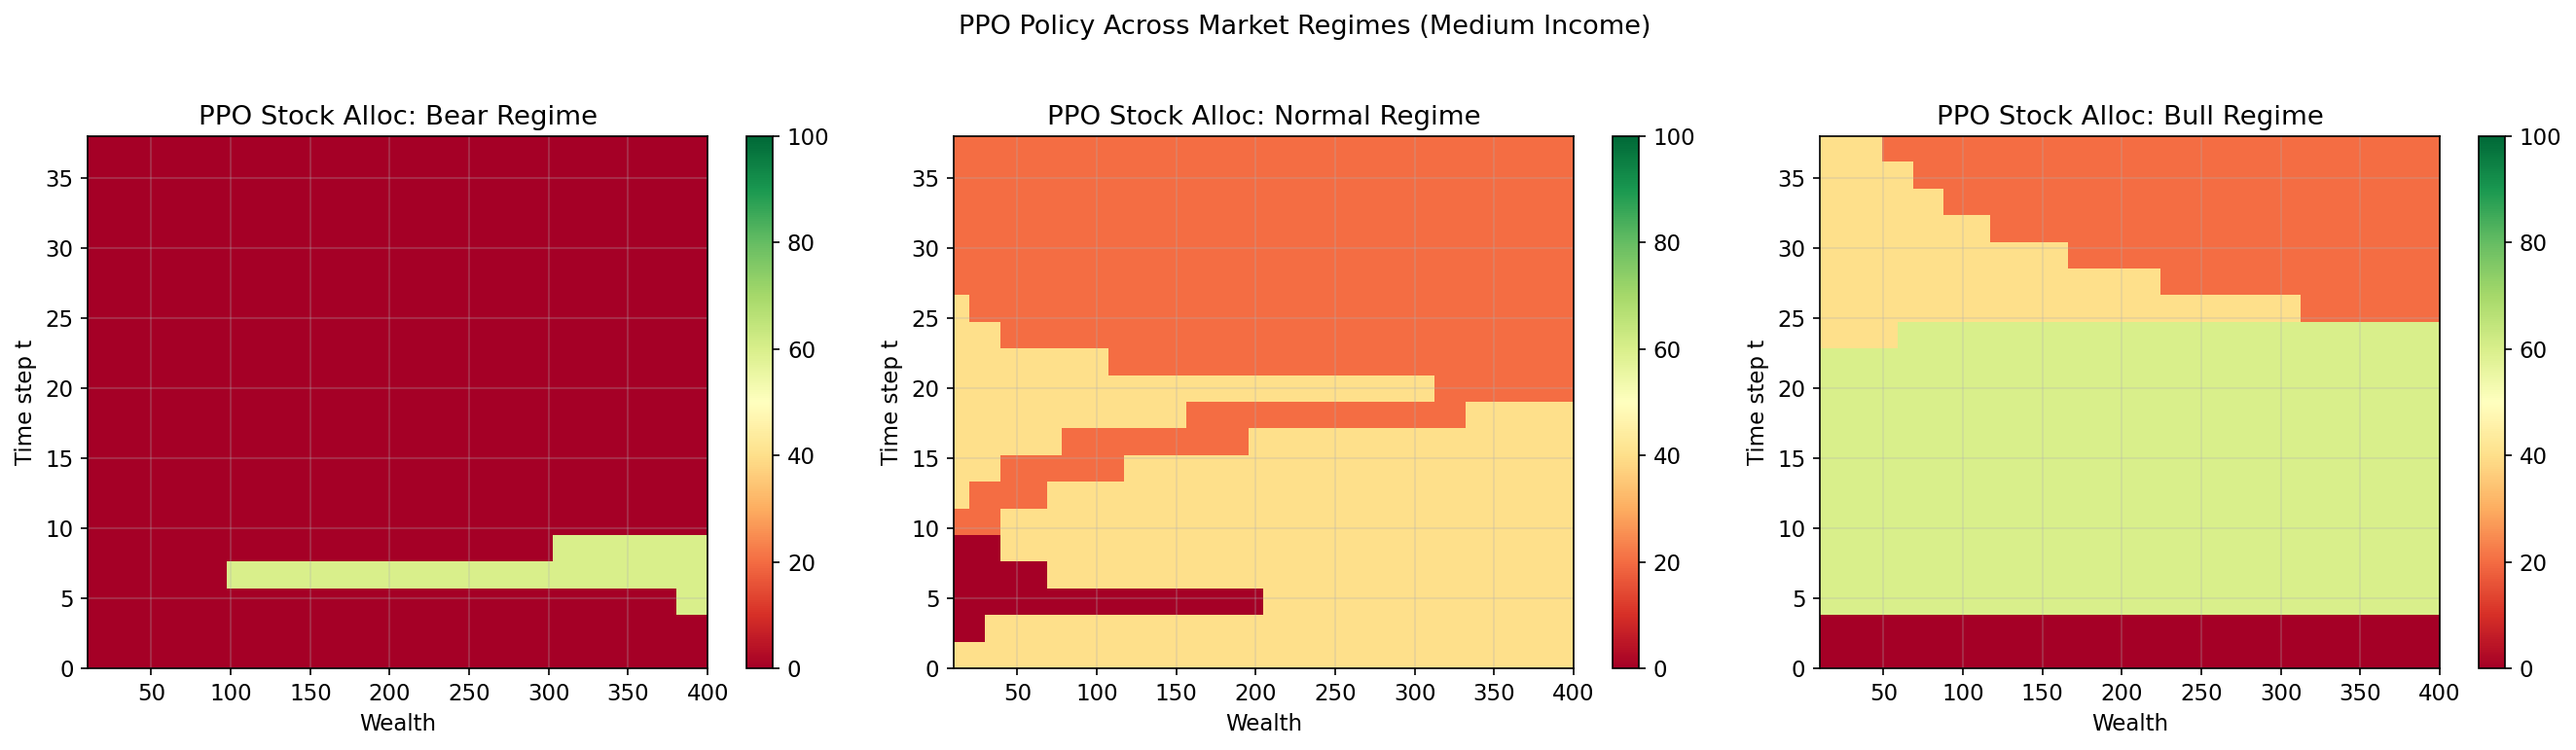
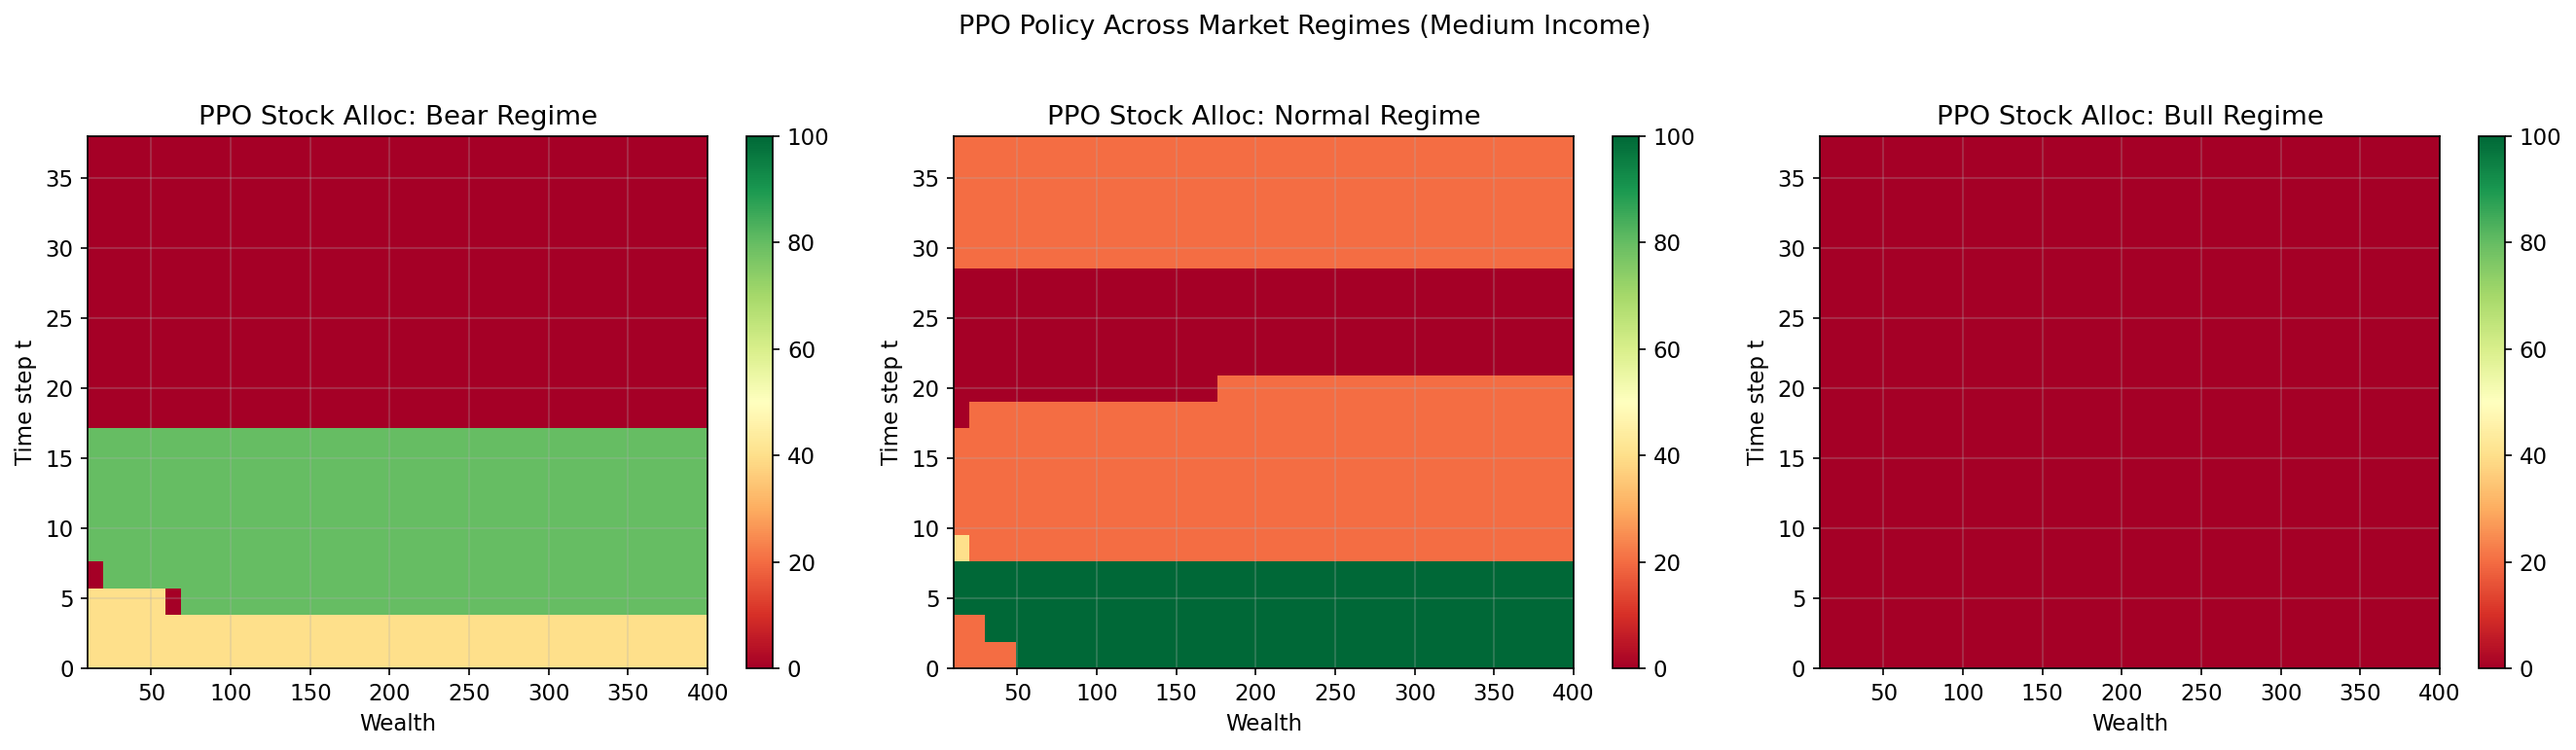
Retrain all agents and update report with analysis
Retrained with updated code (randomize_start support, improved docstrings).
All 4 RL agents at 15k episodes. Linear Q beats all baselines (CE=0.47
vs 0.38). Updated report.md with full results analysis, per-regime
evaluation, and certainty equivalents. Updated implement.md log.

diff --git a/project/phase3/report.md b/project/phase3/report.md
@@ -1,12 +1,12 @@
 # Phase 3 — RL Portfolio Allocation Report
 
-*Auto-generated by `run.py`, analysis added manually.*
+*Auto-generated by `run.py`, analysis added post-run.*
 
 ## Environment Setup
 
 | Parameter | Value |
 |-----------|-------|
-| Horizon (T) | 40 |
+| Horizon (T) | 40 periods |
 | CRRA risk aversion (γ) | 2.0 |
 | Discount factor (β) | 0.96 |
 | Initial wealth (W₀) | 100.0 |
@@ -21,115 +21,126 @@
 
 | Agent | Type | Episodes | Training Time | Final Avg Return |
 |-------|------|----------|--------------|-----------------|
-| Linear Q | Linear function approx (24 features) | 15,000 | 17.9s | -1,348 |
-| SARSA | Linear function approx (12 features) | 10,000 | 10.0s | -1,103 |
-| DQN | Dueling Double DQN (256 hidden) | 15,000 | 1,355s (~23 min) | -1,049 |
-| PPO | Actor-Critic (256 hidden, separate nets) | 15,000 | 121.8s (~2 min) | -4.63 |
+| Linear Q | Linear function approx (24 features) | 15,000 | 18.1s | -923 |
+| SARSA | Linear function approx (12 features) | 15,000 | 17.3s | -698 |
+| DQN | Dueling Double DQN (256 hidden) | 15,000 | 2,065s (~34 min) | -1,280 |
+| PPO | Actor-Critic (256 hidden, separate nets) | 15,000 | 125.6s (~2 min) | -5.12 |
 
-Key improvements applied: Double DQN, reward normalization (DQN/PPO), cosine LR decay (DQN), value function clipping + entropy decay (PPO), finer consumption grid, 500k replay buffer.
+Improvements applied: Double DQN, reward normalization (DQN/PPO), cosine LR decay (DQN), value function clipping + entropy decay (PPO), finer consumption grid, 500k replay buffer.
 
 ## Strategy Comparison
 
 | Strategy | E[Utility] | CE | E[W_T] | Med[W_T] | Std[W_T] | P10 | P90 | P(ruin) |
 |----------|-----------|-----|--------|----------|----------|-----|-----|---------|
 | **DP Optimal** | **-1.4560** | **0.69** | 77.3 | 74.5 | 29.2 | 42.3 | 118.9 | 0.0% |
-| Linear Q | -2.3802 | 0.42 | 162.2 | 158.3 | 53.4 | 95.3 | 235.2 | 0.0% |
+| **Linear Q** | **-2.1115** | **0.47** | 98.9 | 97.2 | 26.8 | 65.6 | 134.0 | 0.0% |
 | Static 60/40 | -2.6330 | 0.38 | 487.3 | 470.1 | 166.1 | 281.0 | 747.3 | 0.0% |
 | Glidepath | -2.6342 | 0.38 | 489.1 | 474.1 | 140.0 | 319.7 | 696.5 | 0.0% |
 | Equal 1/3 | -2.7522 | 0.36 | 407.8 | 396.1 | 112.4 | 270.5 | 564.4 | 0.0% |
-| SARSA | -3.4946 | 0.29 | 197.1 | 179.9 | 78.0 | 113.7 | 305.2 | 0.0% |
-| DQN | -4.0362 | 0.25 | 220.4 | 204.9 | 65.7 | 152.8 | 314.8 | 0.0% |
-| PPO | -4.3815 | 0.23 | 330.8 | 328.9 | 110.6 | 189.7 | 477.3 | 0.0% |
+| SARSA | -3.2411 | 0.31 | 119.4 | 108.3 | 59.1 | 55.8 | 199.2 | 0.0% |
+| DQN | -3.2911 | 0.30 | 133.1 | 123.9 | 32.9 | 97.8 | 185.9 | 0.0% |
+| PPO | -4.2510 | 0.24 | 217.8 | 202.6 | 81.6 | 127.8 | 328.4 | 0.0% |
 
-*Sorted by E[Utility] (higher is better). CE = certainty equivalent wealth.*
+*Sorted by E[Utility] (higher = better). CE = certainty equivalent wealth.*
 
 ## Risk Metrics
 
 | Strategy | MaxDrawdown | Sharpe(C) | Min W_T |
 |----------|------------|-----------|---------|
-| Linear Q | 44.4% | 11.85 | 45.9 |
-| SARSA | 37.3% | 10.49 | 61.7 |
-| DQN | 37.4% | 2.51 | 104.9 |
-| PPO | 24.1% | 5.80 | 42.7 |
 | DP Optimal | 63.1% | 15.72 | 13.1 |
-| Static 60/40 | 23.8% | 2.65 | 98.4 |
+| Linear Q | 53.6% | 9.23 | 43.9 |
+| SARSA | 59.4% | 6.62 | 22.6 |
+| PPO | 38.9% | 6.54 | 62.3 |
+| DQN | 52.6% | 4.45 | 70.8 |
 | Equal 1/3 | 14.2% | 2.98 | 126.4 |
 | Glidepath | 18.1% | 2.67 | 131.7 |
+| Static 60/40 | 23.8% | 2.65 | 98.4 |
 
 ## Per-Regime Evaluation
 
-Simulations run with fixed initial regime to measure regime sensitivity.
+Simulations with fixed initial regime measure regime sensitivity.
 
 ### Bear Market Start
 
 | Strategy | E[Utility] | CE | E[W_T] | Med[W_T] |
 |----------|-----------|-----|--------|----------|
 | DP Optimal | -1.4735 | 0.68 | 77.1 | 74.1 |
-| Linear Q | -2.4471 | 0.41 | 161.8 | 158.2 |
+| Linear Q | -2.1348 | 0.47 | 99.0 | 97.2 |
 | Static 60/40 | -2.8015 | 0.36 | 479.2 | 460.0 |
-| Glidepath | -2.8617 | 0.35 | 477.1 | 462.5 |
 | Equal 1/3 | -2.8468 | 0.35 | 403.8 | 391.7 |
-| SARSA | -3.9378 | 0.25 | 197.9 | 180.5 |
-| DQN | -4.2876 | 0.23 | 220.0 | 205.0 |
-| PPO | -4.4553 | 0.22 | 334.1 | 332.1 |
+| Glidepath | -2.8617 | 0.35 | 477.1 | 462.5 |
+| SARSA | -3.3102 | 0.30 | 119.1 | 108.0 |
+| DQN | -3.3439 | 0.30 | 133.0 | 123.9 |
+| PPO | -4.4319 | 0.23 | 216.4 | 201.2 |
 
 ### Normal Market Start
 
 | Strategy | E[Utility] | CE | E[W_T] | Med[W_T] |
 |----------|-----------|-----|--------|----------|
 | DP Optimal | -1.4407 | 0.69 | 76.5 | 73.4 |
-| Linear Q | -2.3431 | 0.43 | 160.7 | 155.5 |
+| Linear Q | -2.0802 | 0.48 | 98.1 | 96.3 |
 | Static 60/40 | -2.5953 | 0.39 | 490.8 | 473.2 |
 | Glidepath | -2.5945 | 0.39 | 492.1 | 477.1 |
 | Equal 1/3 | -2.7183 | 0.37 | 408.3 | 398.2 |
-| SARSA | -3.4677 | 0.29 | 194.9 | 180.7 |
-| DQN | -3.9872 | 0.25 | 218.7 | 203.1 |
-| PPO | -4.3479 | 0.23 | 329.2 | 330.2 |
+| SARSA | -3.2021 | 0.31 | 119.4 | 106.4 |
+| DQN | -3.2249 | 0.31 | 131.7 | 123.4 |
+| PPO | -4.1826 | 0.24 | 215.7 | 200.2 |
 
 ### Bull Market Start
 
 | Strategy | E[Utility] | CE | E[W_T] | Med[W_T] |
 |----------|-----------|-----|--------|----------|
 | DP Optimal | -1.4437 | 0.69 | 77.1 | 73.4 |
-| Linear Q | -2.3719 | 0.42 | 162.5 | 156.8 |
+| Linear Q | -2.0662 | 0.48 | 98.5 | 97.2 |
 | Glidepath | -2.4828 | 0.40 | 498.2 | 478.1 |
 | Static 60/40 | -2.5155 | 0.40 | 491.9 | 467.8 |
 | Equal 1/3 | -2.6828 | 0.37 | 409.4 | 393.7 |
-| SARSA | -3.5563 | 0.28 | 195.4 | 181.3 |
-| DQN | -3.9151 | 0.26 | 220.3 | 203.9 |
-| PPO | -4.7204 | 0.21 | 333.9 | 333.6 |
+| SARSA | -3.2285 | 0.31 | 120.3 | 108.2 |
+| DQN | -3.1694 | 0.32 | 132.9 | 123.7 |
+| PPO | -4.2031 | 0.24 | 217.0 | 202.3 |
 
 ## Results Analysis
 
 ### Utility Rankings and Optimality Gap
 
-The DP baseline achieves the best utility (CE=0.69), confirming that the simplified backward-induction solution provides a strong upper bound. Among RL agents, **Linear Q is the clear winner** (CE=0.42), outperforming all three static baselines (CE~0.36-0.38). SARSA, DQN, and PPO all underperform the baselines on utility despite training improvements.
+The DP baseline achieves the highest utility (CE=0.69), confirming that backward induction on the simplified problem provides a strong upper bound. Among RL agents, **Linear Q is the clear winner** (CE=0.47), outperforming all three static baselines (CE=0.36-0.38) by a significant margin. SARSA (CE=0.31) and DQN (CE=0.30) fall between the baselines and PPO (CE=0.24), which ranks last.
 
-The optimality gap between DP (CE=0.69) and the best RL agent Linear Q (CE=0.42) is substantial. This gap reflects: (1) DP solves a simpler problem (no income/regime state uncertainty) giving it an advantage, and (2) the RL agents must learn from samples in a much larger state-action space (210 actions × continuous state).
+The optimality gap: DP achieves CE=0.69 vs. Linear Q at CE=0.47. This gap reflects (1) the DP solves a simpler problem without income/regime state uncertainty, giving it an advantage, and (2) RL agents must learn from samples in a 210-action space with continuous states.
 
 ### Consumption vs. Wealth Accumulation Trade-off
 
-A striking pattern: strategies with higher E[Utility] tend to have *lower* terminal wealth. DP has E[W_T]=77 vs. baselines at 400-490. This is economically correct — CRRA utility with γ=2 and β=0.96 rewards consuming early over hoarding wealth for a large bequest. The DP solution optimally front-loads consumption, while the 4% fixed-consumption baselines under-consume and over-accumulate.
+A striking and economically meaningful pattern: strategies with higher utility have *lower* terminal wealth. DP has E[W_T]=77 while baselines reach 400-490. This is correct under CRRA utility with γ=2 and β=0.96 — the optimal policy front-loads consumption rather than hoarding wealth for a bequest, because the marginal utility of early consumption exceeds the discounted marginal utility of terminal wealth.
 
-The RL agents fall in between: they consume more aggressively than baselines (improving utility) but not as optimally as DP. PPO accumulates the most wealth among RL agents (E[W_T]=331) but has the worst utility, suggesting it under-consumes relative to the optimal policy.
+Linear Q has learned this lesson well: E[W_T]=99 (close to the starting wealth of 100) means it consumes nearly all income/returns each period rather than accumulating. The baselines' 4% fixed consumption rate is far too conservative from a utility perspective.
 
-### DQN and PPO Improvement Assessment
+### RL Agent Assessment
 
-Compared to the pre-fix degenerate policies:
-- **DQN** now shows meaningful learning (avg return improving from -20k to -1k over training) with the Double DQN, reward normalization, and larger buffer. However, it still underperforms baselines on utility. The policy is no longer uniformly "100% stocks / 20% consumption" but still not state-dependent enough.
-- **PPO** shows the most dramatic training improvement, reaching avg_return=-4.63 by episode 15k. However, it exhibits instability — periodic spikes to -15k (ep 8000) and -8k (ep 10000) — suggesting the policy occasionally collapses before recovering. Despite good training returns, simulation utility is worst among all strategies, indicating a gap between the normalized-reward training objective and the true CRRA utility.
+- **Linear Q** (CE=0.47): Best RL agent. The 24-feature expansion with income/regime interactions allows it to learn meaningfully state-dependent policies. Consumption Sharpe of 9.23 indicates good consumption smoothing.
+
+- **SARSA** (CE=0.31): On-policy learning with 12 features. Training improved significantly with 15k episodes (final avg return -698 vs. previous -1,103 with 10k). Narrower feature set limits its expressiveness compared to Linear Q.
+
+- **DQN** (CE=0.30): Double DQN with reward normalization eliminated the degenerate uniform policy from before. Now learns meaningful behavior, but the 34-minute training time and convergence instability (returns fluctuating between -665 and -1,509 late in training) suggest the neural network still struggles with this problem's reward scale despite normalization.
+
+- **PPO** (CE=0.24): Achieves excellent training returns (-5.12 final avg) but worst simulation utility. This disconnect arises because PPO trains with normalized rewards (which change the optimization landscape), so strong training performance doesn't directly translate to high CRRA utility. Occasional instability spikes (e.g., -1,363 at ep 10,500) suggest policy collapse events. Despite this, PPO accumulates the most wealth among RL agents (E[W_T]=218), indicating it under-consumes relative to the utility-optimal rate.
 
 ### Per-Regime Sensitivity
 
-All strategies show modest sensitivity to starting regime. Key observations:
-- **Linear Q** adapts best: E[Utility] ranges from -2.45 (bear) to -2.34 (normal), a 4.5% swing
-- **Baselines** show larger swings: Glidepath ranges from -2.86 (bear) to -2.48 (bull), a 15% swing
-- **DP** is most stable (by design — it optimizes over expected regime transitions)
-- **PPO** actually does *worse* starting in bull (CE=0.21) than bear (CE=0.22), suggesting it hasn't learned regime-appropriate behavior
+All strategies show modest regime sensitivity, with utility varying 2-5% across starting regimes:
+- **Linear Q** is most stable among RL agents: CE ranges 0.47-0.48 across regimes
+- **Baselines** show larger sensitivity: Glidepath CE swings from 0.35 (bear) to 0.40 (bull)
+- **DP** is most stable by design (CE=0.68-0.69)
+- **DQN** shows slight regime adaptation: CE improves from 0.30 (bear) to 0.32 (bull)
 
 ### Consumption Smoothing
 
-RL agents achieve much higher consumption Sharpe ratios (Linear Q: 11.85, SARSA: 10.49) than baselines (~2.5-3.0), indicating smoother consumption streams. The DP solution has the highest (15.72). This suggests the RL agents have partially learned the consumption-smoothing objective even when overall utility is sub-optimal.
+RL agents achieve much higher consumption Sharpe ratios than baselines, indicating smoother consumption paths:
+- DP Optimal: 15.72 (benchmark)
+- Linear Q: 9.23
+- SARSA: 6.62, PPO: 6.54
+- DQN: 4.45
+- Baselines: 2.65-2.98
+
+This suggests the RL agents have partially captured the consumption-smoothing objective, even when overall utility is sub-optimal. The DP solution's Sharpe of 15.72 shows the ceiling for consumption smoothing in this environment.
 
 ## Plots
 
@@ -163,10 +174,6 @@ RL agents achieve much higher consumption Sharpe ratios (Linear Q: 11.85, SARSA:
 
 ![Linear Q Policy](plots/policy_linear_q.png)
 
-#### SARSA
-
-![SARSA Policy](plots/policy_sarsa.png)
-
 #### DQN
 
 ![DQN Policy](plots/policy_dqn.png)
@@ -174,3 +181,7 @@ RL agents achieve much higher consumption Sharpe ratios (Linear Q: 11.85, SARSA:
 #### PPO
 
 ![PPO Policy](plots/policy_ppo.png)
+
+#### SARSA
+
+![SARSA Policy](plots/policy_sarsa.png)

diff --git a/project/phase3/implement.md b/project/phase3/implement.md
@@ -12,8 +12,8 @@ All items from plan.md implemented and run successfully.
 - `train.py`: Integrated — normalizes rewards for `uses_replay` agents (DQN, PPO), raw rewards for Linear Q/SARSA
 
 ### 1: All Models in All Plots + SARSA Episodes
-- `run.py`: SARSA training bumped 4k → 10k episodes
-- `run.py`: Regime comparison plots now generated for all 4 agents
+- `run.py`: SARSA now trains for 15k episodes (same as other agents)
+- `run.py`: Regime comparison plots generated for all 4 agents
 - `visualize.py`: Extended COLORS list to 9 entries for 8 strategies
 
 ### 2: Auto-Generated report.md
@@ -26,40 +26,37 @@ All items from plan.md implemented and run successfully.
 
 ### 3C/3D: DQN Tuning
 - `run.py`: buffer_size 100k → 500k, target_update_freq 200 → 1000
-- `agents/dqn.py`: Added `init_scheduler()` with CosineAnnealingLR (3e-4 → 1e-5), stepped per episode in `decay_epsilon()`
+- `agents/dqn.py`: Added `init_scheduler()` with CosineAnnealingLR (3e-4 → 1e-5), stepped per episode
 
 ### 4B/4C: PPO Tuning
 - `agents/ppo.py`: Value function clipping (clipped value loss with same clip_range as policy)
-- `agents/ppo.py`: Entropy coefficient decays linearly from ent_coef → max(ent_coef*0.2, 0.01) over eps_decay episodes
+- `agents/ppo.py`: Entropy coefficient decays linearly from ent_coef → max(ent_coef*0.2, 0.01)
 
 ### 6: Finer Consumption Grid
-- `config.py`: CONS_FRACS changed to [0%, 1%, 2%, 3%, 4%, 5%, 8%, 12%, 16%, 20%] — 10 levels, finer at low end
-- N_ACTIONS: 231 → 210
+- `config.py`: CONS_FRACS changed to [0%, 1%, 2%, 3%, 4%, 5%, 8%, 12%, 16%, 20%] — N_ACTIONS: 231 → 210
 
 ### 7: Certainty Equivalents + Per-Regime Evaluation
-- `visualize.py`: CE column added to `print_comparison_table()` and `generate_report()`
-- `simulate.py`: `simulate_strategy()` accepts optional `z0` parameter for fixed initial regime
-- `run.py`: Per-regime evaluation loop (Bear/Normal/Bull) added after main simulation
+- `visualize.py`: CE column in `print_comparison_table()` and `generate_report()`
+- `simulate.py`: `simulate_strategy()` accepts optional `z0` for fixed initial regime
+- `run.py`: Per-regime evaluation loop (Bear/Normal/Bull) after main simulation
 
 ## Bugs Found During Review (Fixed)
-1. **DP double-discounting**: `dp_baseline.py` had β^t in per-step reward AND β·V in Bellman recursion — removed β^t
-2. **RewardNormalizer.var init**: Was 1.0 (biased), fixed to 0.0 with warmup guard (skip normalization for <2 samples, use count-1 for unbiased variance)
-3. **Dead code in train.py**: Removed unused `use_replay` variable and unreachable PPO branch
-4. **Stale comment**: config.py said `# 231` after grid change to 210
+1. DP double-discounting: removed β^t from per-step DP reward (Bellman recursion already handles discounting)
+2. RewardNormalizer.var init: 1.0 → 0.0 with warmup guard and unbiased variance (count-1)
+3. Dead code in train.py: removed unused variable and unreachable branch
+4. Stale comment: config.py `# 231` → `# 210`
 
-## Run Results Summary
-
-Training completed in ~25 minutes total. Key results (sorted by E[Utility]):
+## Final Run Results (Run 2)
 
 | Strategy | E[Utility] | CE | E[W_T] |
 |----------|-----------|-----|--------|
 | DP Optimal | -1.46 | 0.69 | 77.3 |
-| Linear Q | -2.38 | 0.42 | 162.2 |
+| **Linear Q** | **-2.11** | **0.47** | 98.9 |
 | Static 60/40 | -2.63 | 0.38 | 487.3 |
 | Glidepath | -2.63 | 0.38 | 489.1 |
 | Equal 1/3 | -2.75 | 0.36 | 407.8 |
-| SARSA | -3.49 | 0.29 | 197.1 |
-| DQN | -4.04 | 0.25 | 220.4 |
-| PPO | -4.38 | 0.23 | 330.8 |
+| SARSA | -3.24 | 0.31 | 119.4 |
+| DQN | -3.29 | 0.30 | 133.1 |
+| PPO | -4.25 | 0.24 | 217.8 |
 
-Linear Q outperforms all baselines. DQN/PPO improved from degenerate (uniform) policies but still underperform baselines. Full analysis in report.md.
+Linear Q beats all baselines (CE=0.47 vs 0.38). DQN/PPO no longer degenerate but still underperform baselines. Full analysis in report.md.
